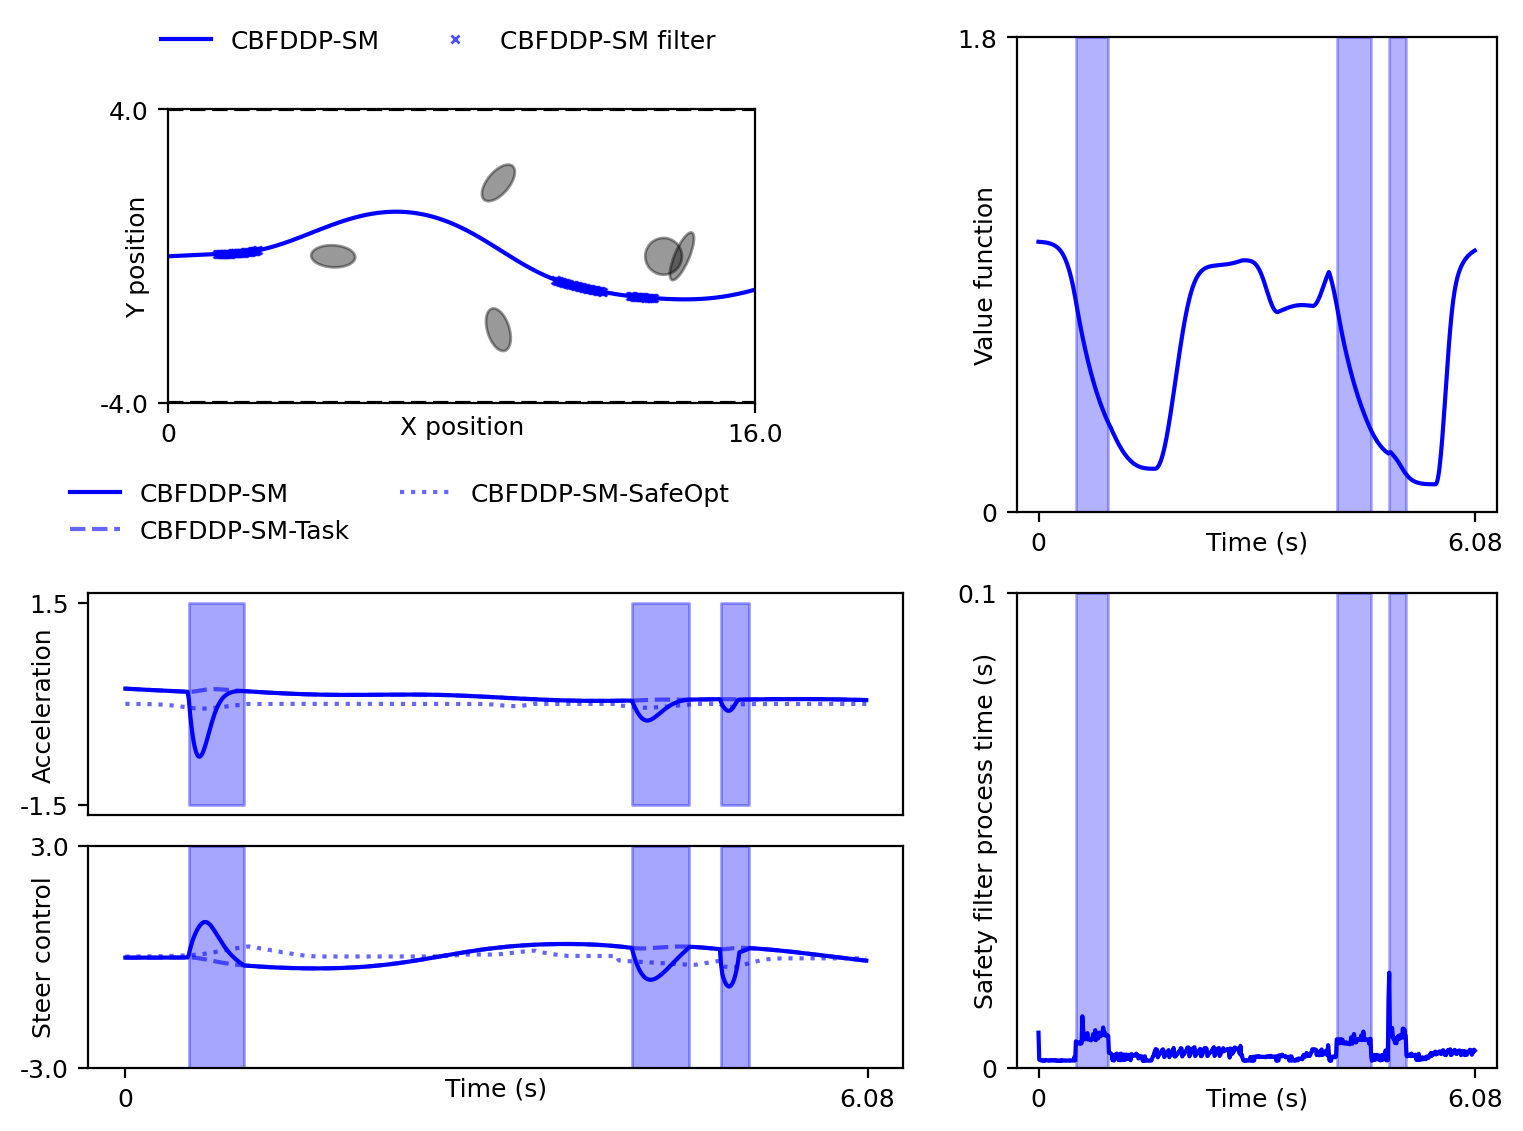
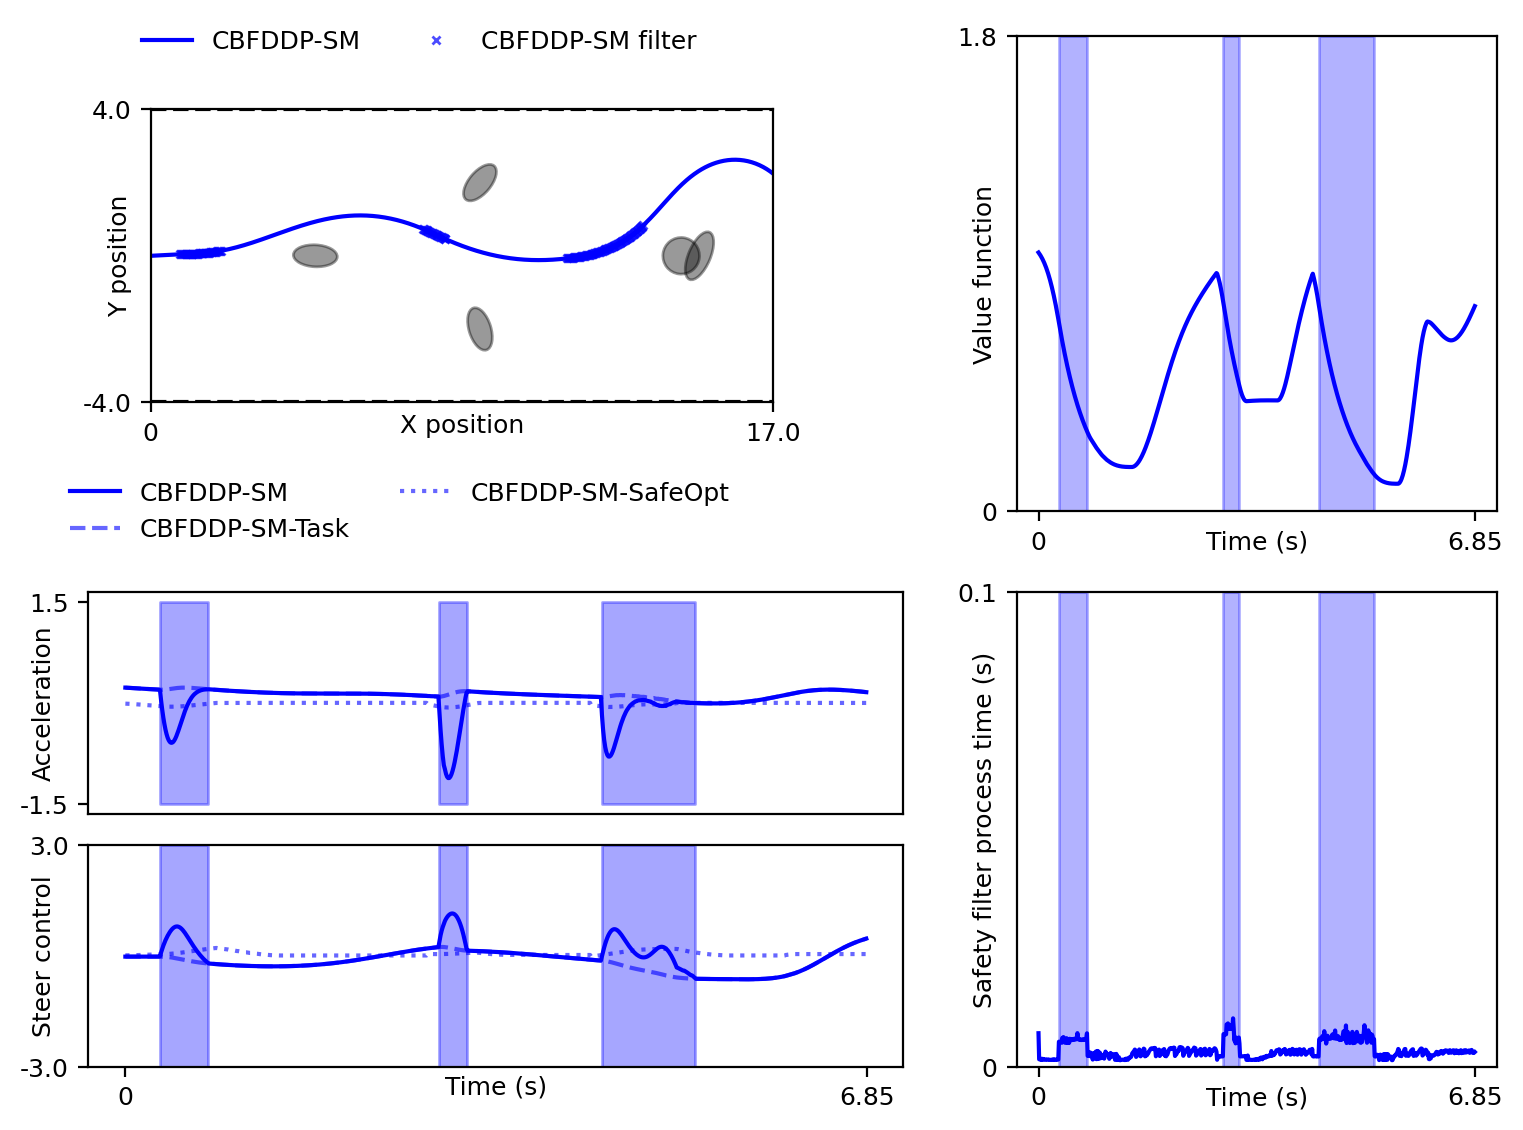
all updates (#23)

diff --git a/simulators/costs/obs_margin.py b/simulators/costs/obs_margin.py
@@ -166,8 +166,11 @@ class EllipseObsMargin(BaseMargin):
         self.ellipse_half_width = ellipse_spec[4]
         self.obs_rot_mat = jnp.array([[jnp.cos(self.ellipse_yaw), jnp.sin(self.ellipse_yaw)], 
                             [-jnp.sin(self.ellipse_yaw), jnp.cos(self.ellipse_yaw)]])
-        self.buffer = buffer
-        self.max_radius = jnp.maximum(self.ellipse_half_length, self.ellipse_half_width)
+        # This is a conservative approximation of how much units of cost margin we provide to the buffer.
+        # A better approximation would be the to sample footprint and choose minimum or smooth minimum.
+        # We use this approximaiton for speed and smoothness.
+        self.buffer_margin = buffer/jnp.minimum(self.ellipse_half_length, self.ellipse_half_width)
+        self.avg_radius = (self.ellipse_half_length + self.ellipse_half_width)/2.0
 
     @partial(jax.jit, static_argnames='self')
     def get_stage_margin(
@@ -180,11 +183,8 @@ class EllipseObsMargin(BaseMargin):
         pos = state[0:2].reshape(2, -1)
         relative_vector = (pos - self.ellipse_center)
         pos_final = self.obs_rot_mat @ relative_vector
-        buffer_margin_vector = self.buffer*pos_final /jnp.linalg.norm(pos_final , axis=0, keepdims=True)
-        pos_final = pos_final - buffer_margin_vector
-        obs_margin = jnp.sqrt((pos_final[0]/self.ellipse_half_length)**2 + (pos_final[1]/self.ellipse_half_width)**2) - 1.0
-
-        return obs_margin.squeeze()*self.max_radius
+        obs_margin = jnp.sqrt((pos_final[0]/self.ellipse_half_length)**2 + (pos_final[1]/self.ellipse_half_width)**2) - 1.0 - self.buffer_margin
+        return obs_margin.squeeze()*self.avg_radius
 
     @partial(jax.jit, static_argnames='self')
     def get_target_stage_margin(
